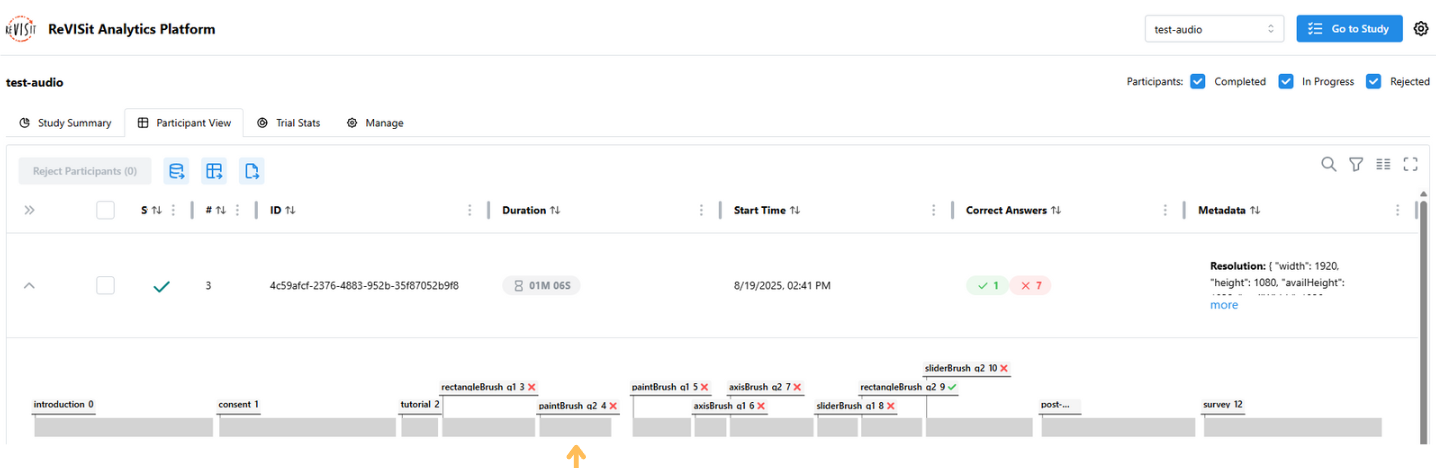
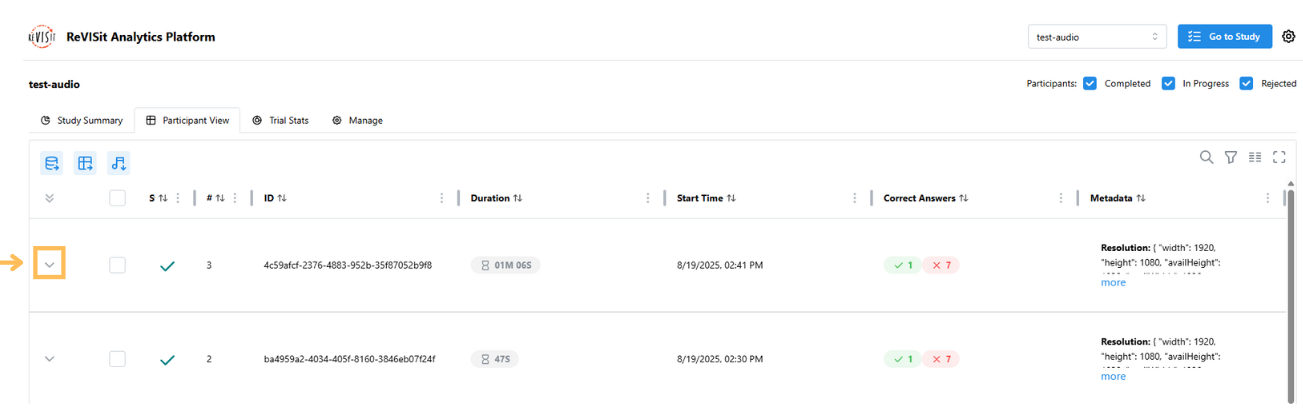
Fix typo and update audio screenshot

diff --git a/docs/analysis/data-export.md b/docs/analysis/data-export.md
@@ -134,11 +134,14 @@ To download audio from specific participants, select the participants in the tab
 
 1. Navigate to the **Analysis** platform for the current study.
 
-2. Open the **Participant View**, then open up the timeline of the participant and click on the task.
+2. Open the **Participant View**, then expand the participant’s timeline by clicking the expand button.
 ![Download task audio](./img/audio-export-task-1.png)
 
-3. Click on the **Download Audio** button.
+3. Click on the task.
 ![Download task audio](./img/audio-export-task-2.png)
+
+3. Click on the **Download Audio** button.
+![Download task audio](./img/audio-export-task-3.png)
 
 :::note
 If you are using Firebase, it will download the transcript of the audio file as well.

diff --git a/docs/analysis/data-management.md b/docs/analysis/data-management.md
@@ -10,7 +10,7 @@ A **snapshot** of in the data management platform is an exact copy of the curren
 
 ## Archiving Data
 
-When you archive your data, it first creates a snapshot of the current study data. Then, the current study data is completely removed - allowing you to essentially "reset" the study while creating a backup copy to restore at a later point.
+When you archive your data, it first creates a snapshot of the current study data. Then, the current study data is completely removed -- allowing you to essentially "reset" the study while creating a backup copy to restore at a later point.
 
 ## Restoring a Snapshot
 

diff --git a/docs/analysis/participant-replay.md b/docs/analysis/participant-replay.md
@@ -15,7 +15,7 @@ The participant replay can be used for an overview of each participants study.
 
 ![Participant Replay](./img/participant-replay.png)
 
-To view the provenance or audio replay for a single participant, click on a task on the timeline. 
+To view the provenance or audio replay for a single participant, click the expand icon to open their data row, then select a task on the timeline. 
 
 ![Single Replay](./img/participant-replay-single.png)
 
